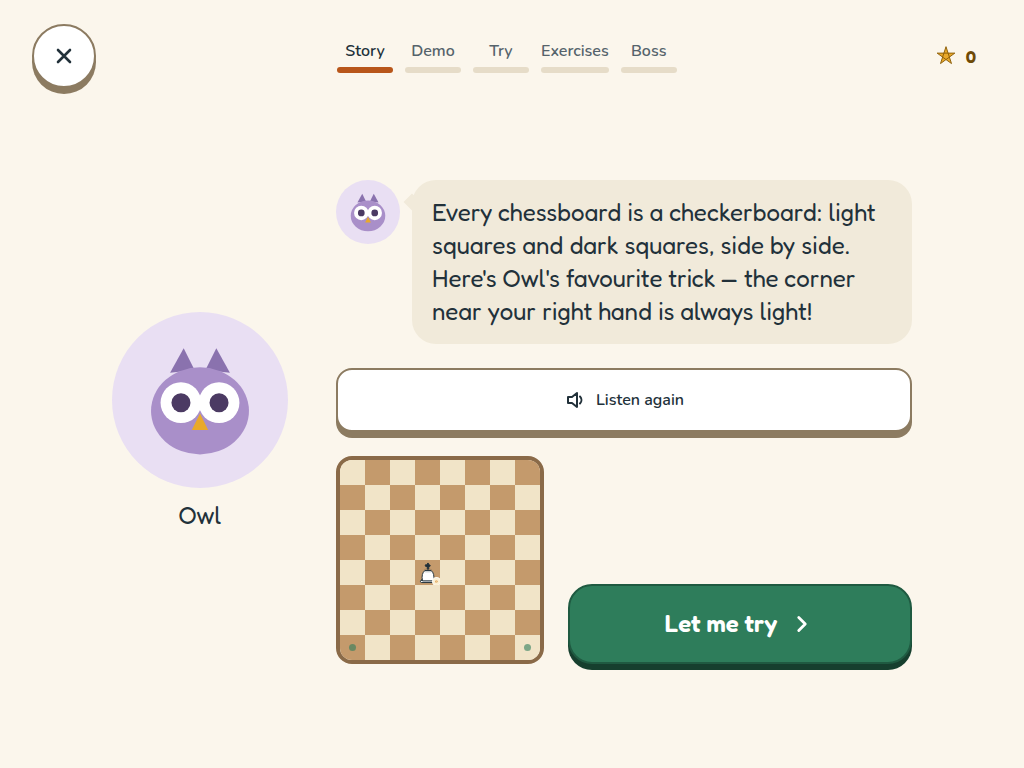
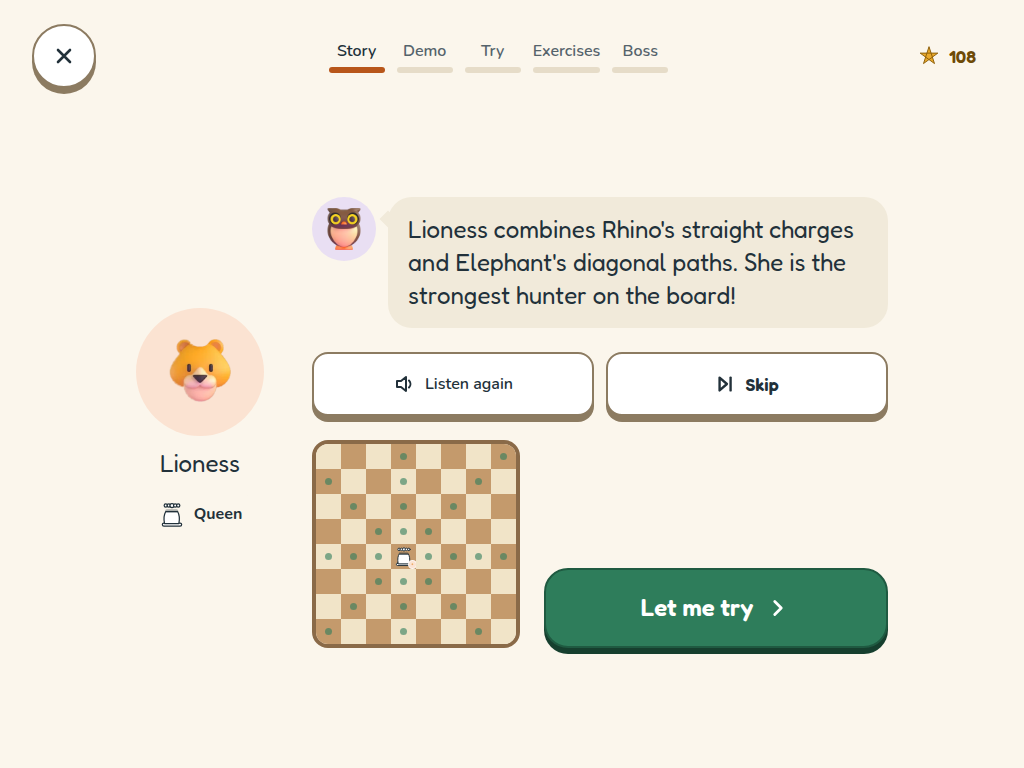
M7.3: release v2.0.0 (M6 voice & art + M7 time controls & device sharing) (#49)
Version 2.0.0; README screenshots with the Fluent 3D art; validation rows m6.6 / m6 / m7.3 / m7; owner device check on iPad mini 4 (iOS 15.8): voice good. M6 and M7 ship together (M6.3 merged after M7.1).

Claude-Session: https://claude.ai/code/session_01RTqFExH8VauenXwpQFbQm6

diff --git a/docs/validation.md b/docs/validation.md
@@ -77,3 +77,7 @@ Every merged iteration gets an annotated tag `m<N>.<i>` (milestone done: also `m
 | `m7.1` | 2026-09-25 | Time controls (v2): Mon–Fri / Sat–Sun limits, allowed hours ("Play until" / "Not before", parent +15 min window past the edge), 5-minute warning (app-level notice, calm screens only, once per child per day, spoken); parent report shows the active rules | F L T U B E S K | U: core 657, content 287, web 333 (agent). E: 96 (agent, 4 projects: gate "Time to rest!" → parent code → resumes; warning banner on Home at limit − 3). S: settings toggle off / on + hours, banner, late / early screens (agent, reviewed). Agent fixes beyond spec: stale `playFrom` on the early screen (read from the gate now), racing settings writes (serialised). Lead: voice inventory missed the new texts (explicit list) → added late / early (bounded by "Not before" options) / 5-min notice, 5 MP3s generated (668 total); merged M6.5 wording into the new tests; Store apps → M8, Paths → M9 |
 | `m6.3` | 2026-09-25 | Voice hardening: iPad audio unlock (owner: in-app voice mechanical = device-voice fallback), "Test voice" in child settings, feedback note as its own utterance (no device voice mid-lesson, 77 new MP3s), `pnpm voice:check` in CI, resume timeout, miss report asserted in the a11y walk, precache ≤ 50 MB check. Owner request folded in: every "code" label → "parent code" | F L T U B K Z S | U: core 635, content 296, web 374 (agent; +21 audio narrator, +4 speakSequence, host order, 2 Test voice). E: agent run 44 / 94 before hand-back (0 failed) → full suite in CI. Lead: merged onto master with M6.5 + M7.1 (child settings: time rows + Test voice row kept; manifest rebuilt: 745 texts, 8.7 MB, 37.1 min, `voice:check` green); "parent code" wording: setup / repeat / save / saved / wrong / change / new / download labels, 51 affected tests green. Voice config kept (owner: all 3 samples fine) |
 | `m7.2` | 2026-09-25 | Device sharing (v2): "Send to other device" (share sheet, download fallback), import always merges (per child: "Merge into …" / "Add as new child", change preview), per-device minutes, idempotent re-import; backup keeps the M7.1 settings (they were silently dropped) | F L T U B E S K Z | U: core 720 (+34 merge rules, +10 import use cases), content 296, web 400 (+6 share adapter, +4 staged merged write, backup panel). E: 100 / 100 on the merged branch (4 projects; new `device-sharing.spec.ts`: device A → file → device B with its own "Mia" → merge → both progress; same file again → nothing doubles). S: backup, import preview, after merge (agent, reviewed). Lead: agent summary said lesson progress "whole-record" — code is field-merged per spec (verified); change summary pluralised ("+1 badge"); merged with M6.3 wording cleanly. Known: mini-game plays across devices = max, not sum (idempotency) |
+| `m6.6` | 2026-09-25 | Release prep: README screenshots refreshed (Fluent 3D art, lioness); release folded into `v2.0.0` (M6.3 merged after M7.1 → no M6-only commit on `master`) | F L T U B E S K Z | U / E: CI `quality` on the release PR (full suite incl. older-Safari, voice coverage, a11y walk with the voice-miss report). S: README home / journey / lesson / parent area at 1024×768 reviewed. Owner device check: iPad mini 4 (iOS 15.8), after the update: voice good (owner, 2026-09-26) |
+| `m6` | 2026-09-25 | M6 Voice & art complete: version on Home, generated voice (Kokoro `af_heart`, 745 texts, 8.7 MB, iPad unlock, Test voice), Fluent 3D art, parent code wording; tags m6.1–m6.6 | CI | Exit: every narrated text has audio (`voice:check`), no device-voice fallback in the curriculum walk, precache 10.0 MB (≤ 50 MB), initial JS 185.7 KB (≤ 300), Safari 15.4 compat 0 findings |
+| `m7.3` | 2026-09-25 | Release `v2.0.0` = M6 voice & art + M7 time controls & device sharing: version 2.0.0, CLAUDE.md / roadmap status | F L T U B E K Z | CI `quality` on the release PR (full suite: unit, e2e incl. older Safari, device sharing, a11y walk with voice-miss report, voice coverage, compat, size). Owner device check: iPad mini 4 (iOS 15.8), after the update: voice good (owner, 2026-09-26) |
+| `m7` | 2026-09-25 | M7 (v2 scope) complete: time controls (weekday / weekend limits, allowed hours, 5-minute warning), device sharing (share sheet + merge import); tags m7.1–m7.3 | CI | Exit: offline only, no server; merge idempotent (re-import doubles nothing); backup keeps all settings; online (login, remote play, sync) parked |

diff --git a/docs/roadmap.md b/docs/roadmap.md
@@ -90,10 +90,10 @@ Content track: Worlds 1–2 ready by M2, 3–4 by M3, 5 by M4, illustrations by 
 | `m6.3` | Voice hardening: coverage check in CI (inventory = manifest), feedback note spoken on its own (no device voice mid-lesson), missed-text report from the e2e run, resume timeout before the first tap, offline size check, owner check on phone / tablet |
 | `m6.4` | Illustrations (Fluent 3D): piece characters (incl. lioness), Owl, bot levels, avatars; same look on Home / Journey / Play / picker |
 | `m6.5` | Owner request: "parent code" instead of "password" everywhere in the UI; first-run "Download again" removed; "Download code file" in the grown-ups area (after the code) |
-| `m6.6` | Release `v1.2.0`: validation, README screenshots, release checklist → `m6` |
+| `m6.6` | Release prep (README screenshots, validation) → `m6`; shipped in `v2.0.0` together with M7 |
 | `m7.1` | Time controls: Mon–Fri / Sat–Sun limits, allowed hours ("Play until" / "Not before", parent +15 min window), 5-minute warning (app-level notice on calm screens, once per child per day, spoken) |
 | `m7.2` | Device sharing: merge rules, per-device session logs, "Send to other device" (share sheet), merge import with "Merge into …" / "Add as new child" |
-| `m7.3` | Release `v2.0.0` → `m7` |
+| `m7.3` | Release `v2.0.0` (M6 + M7) → `m7` |
 
 M5 run order (2026-09-25): `m5.1` ∥ `m5.4` → `m5.2` ∥ `m5.5` → `m5.3` last (design pass covers the new M5.2 / M5.5 screens and refreshes the README screenshots) → `m5`.
 
@@ -112,7 +112,7 @@ M5 run order (2026-09-25): `m5.1` ∥ `m5.4` → `m5.2` ∥ `m5.5` → `m5.3` la
 | # | Milestone | Scope |
 |---|---|---|
 | v1.1 | Owner playtest 2 (done 2026-09-25) | Skip for Story / Demo / Try (marked skipped in the track); unmistakable buttons (≥ 3:1 edge contrast, 6 px ledge, dashed locked, info without boxes); app update applied at Home / picker, checked on load and on return (no polling) |
-| M6 | Voice & art (v3 scope, pulled forward 2026-09-25) | Generated voice audio (English first), nicer illustrations, version on Home; iterations §3 `m6.x`; ships as `v1.2.0` |
+| M6 | Voice & art (v3 scope, pulled forward 2026-09-25) | Generated voice audio (English first), nicer illustrations, version on Home; iterations §3 `m6.x`; ships in `v2.0.0` (with M7, 2026-09-25: M6.3 merged after M7.1, no M6-only release point) |
 | M8 | Store apps | Capacitor Android + iPad, native storage, store listings |
 | M9 | Paths | Openings, Tactics, Checkmates & Endgames; Lichess puzzle import; path badges |
 | v2 → M7 | Time controls + device sharing (offline, no server; owner 2026-09-25; iterations §3 `m7.x`; ships as `v2.0.0`) | Do: 5-min warning (app-level notice, calm screens only), limits per weekday, allowed hours; optional: Play vs Learning limits, holiday overrides, detailed time log. Sharing: merge rules + "Send to other device" file (share sheet) → import merges |

diff --git a/CLAUDE.md b/CLAUDE.md
@@ -1,6 +1,6 @@
 # Chess for Kids — project guide
 
-Offline chess learning app for an 8-year-old beginner. Released `v1.1.1`; in progress: M6 voice & art (→ `v1.2.0`), M7 = v2 scope (→ `v2.0.0`); planned: v4 platform refactor (`docs/refactor-v4.md`).
+Offline chess learning app for an 8-year-old beginner. Released `v2.0.0` (M6 voice & art + M7 time controls & device sharing); planned: v4 platform refactor (`docs/refactor-v4.md`).
 
 ## Working style (user preferences)
 
@@ -42,8 +42,8 @@ Offline chess learning app for an 8-year-old beginner. Released `v1.1.1`; in pro
 
 ## Status and next step
 
-- Done: M0–M5 (`m0` … `m5`), releases `v1.0.0`, `v1.1.0` (owner playtest 2). Live: https://enricoag1982.github.io/learningChess/ (deploy on every push to `master`). Pending user action: playtests 1–4 (`docs/roadmap.md` §5), offline check on real tablets (`docs/release.md` §1).
-- Next: M6 Voice & art (v3 scope, `docs/roadmap.md` §3 `m6.x`, branch `m6-media`); then v2 (offline time controls + file sharing, `docs/roadmap.md` §4 / §7); open follow-up F4 (Bear strength); apply `docs/retrospective.md` §6 learnings. Release steps: `docs/release.md`.
+- Done: M0–M7 (`m0` … `m7`), releases `v1.0.0`, `v1.1.0` (owner playtest 2), `v1.1.1` (iPad mini 4 / iOS 15 fix), `v2.0.0` (generated voice, Fluent 3D art, parent code, time controls, device sharing). Live: https://enricoag1982.github.io/learningChess/ (deploy on every push to `master`). Pending user action: playtests 1–4 (`docs/roadmap.md` §5), offline check on real tablets (`docs/release.md` §1).
+- Next: v4 learning-platform refactor (`docs/refactor-v4.md`; owner decisions §8 pending); follow-ups F4 (Bear strength), F5 (mate-in-2+ freeze outside a lesson step); apply `docs/retrospective.md` §6 learnings. Release steps: `docs/release.md`.
 - Local: `pnpm install` · `pnpm dev` · `pnpm test` · `pnpm build && PW_CHROMIUM_PATH=/opt/pw-browsers/chromium pnpm test:e2e` (cloud sandbox browser path) · `pnpm size`.
 - Dev playgrounds (dev builds only): `/#board`, `/#exercises`, `/#lesson=<id>&view=<story|demo|boss|exercise id>`.
 - Content review rule: every select-squares / yes-no / choice / setup text is checked against its board so exactly one reading leads to the accepted answer (log it as check N). No distractor pieces: a piece the question is not about pulls the eye (playtest: "row closest to you" with a king in the middle was read as "squares closest to the king"); say "bottom row" / "top row", not "closest to you".
